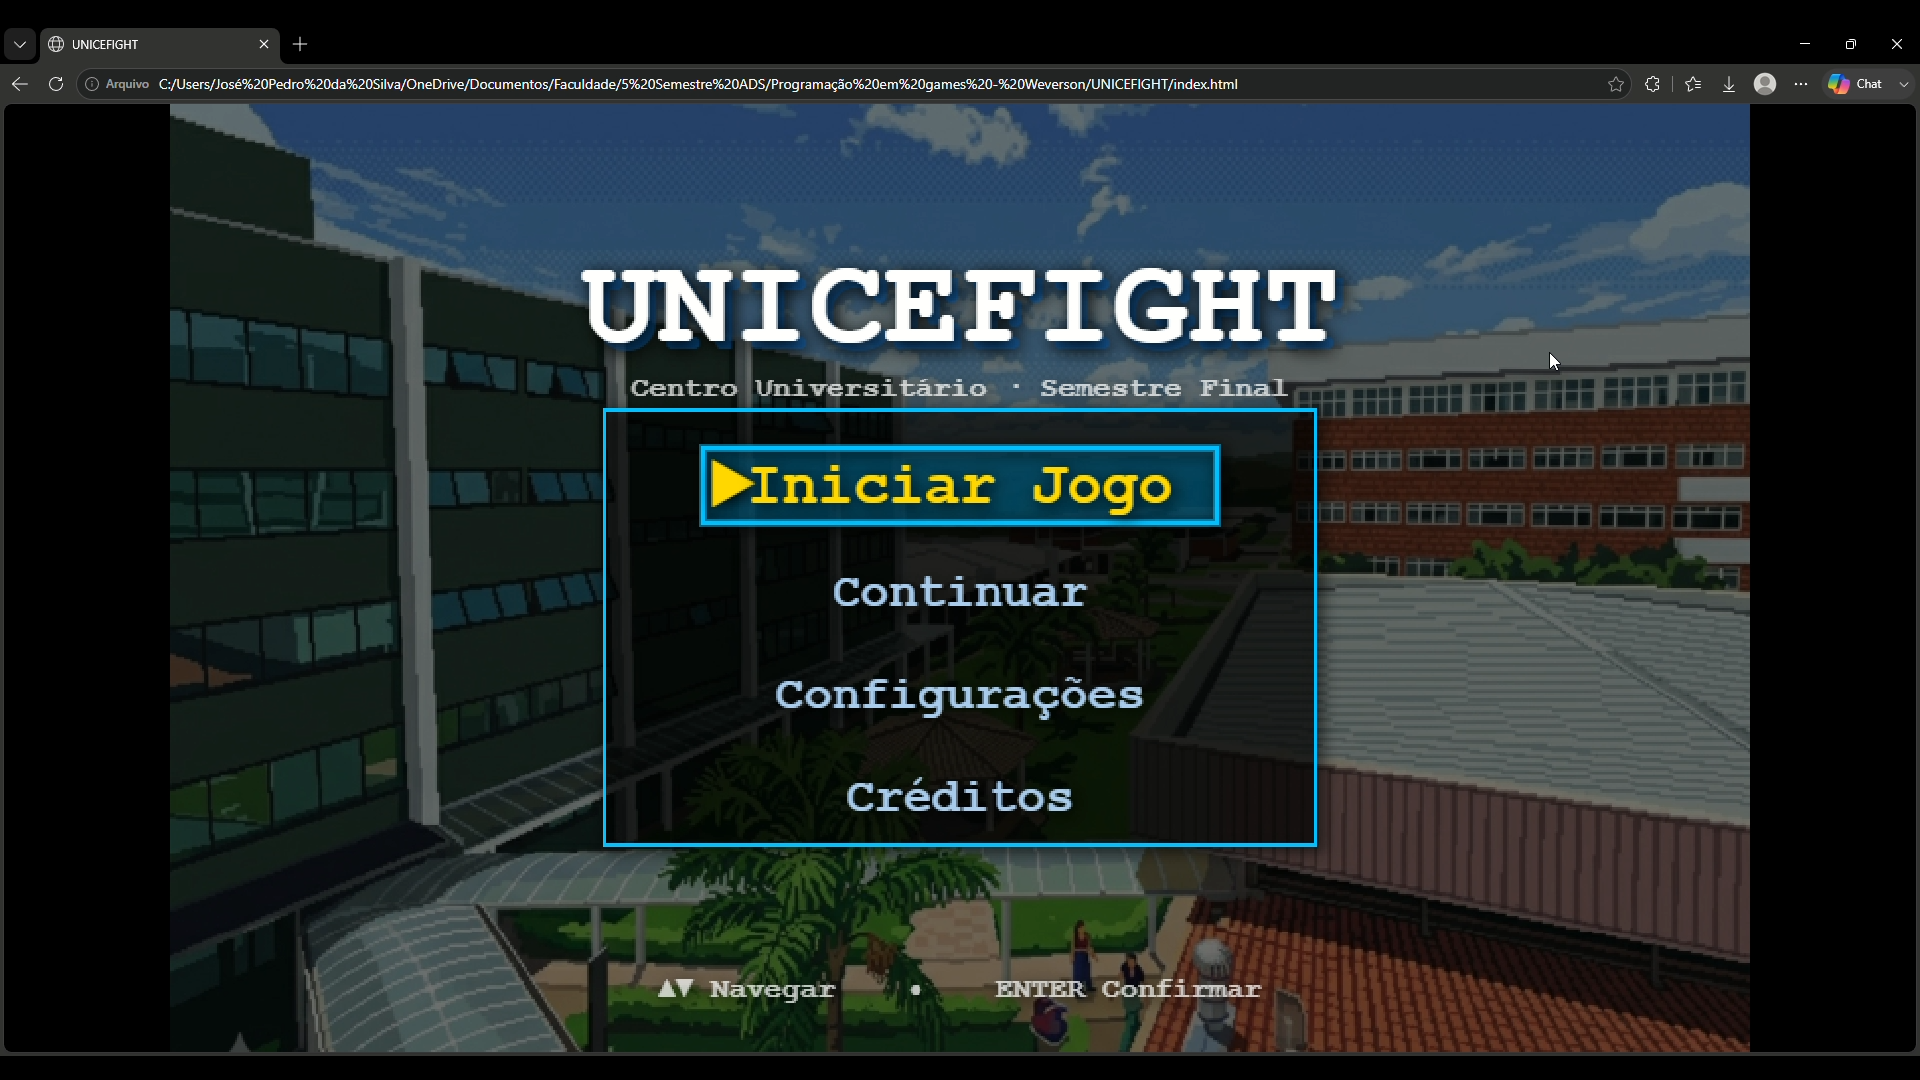
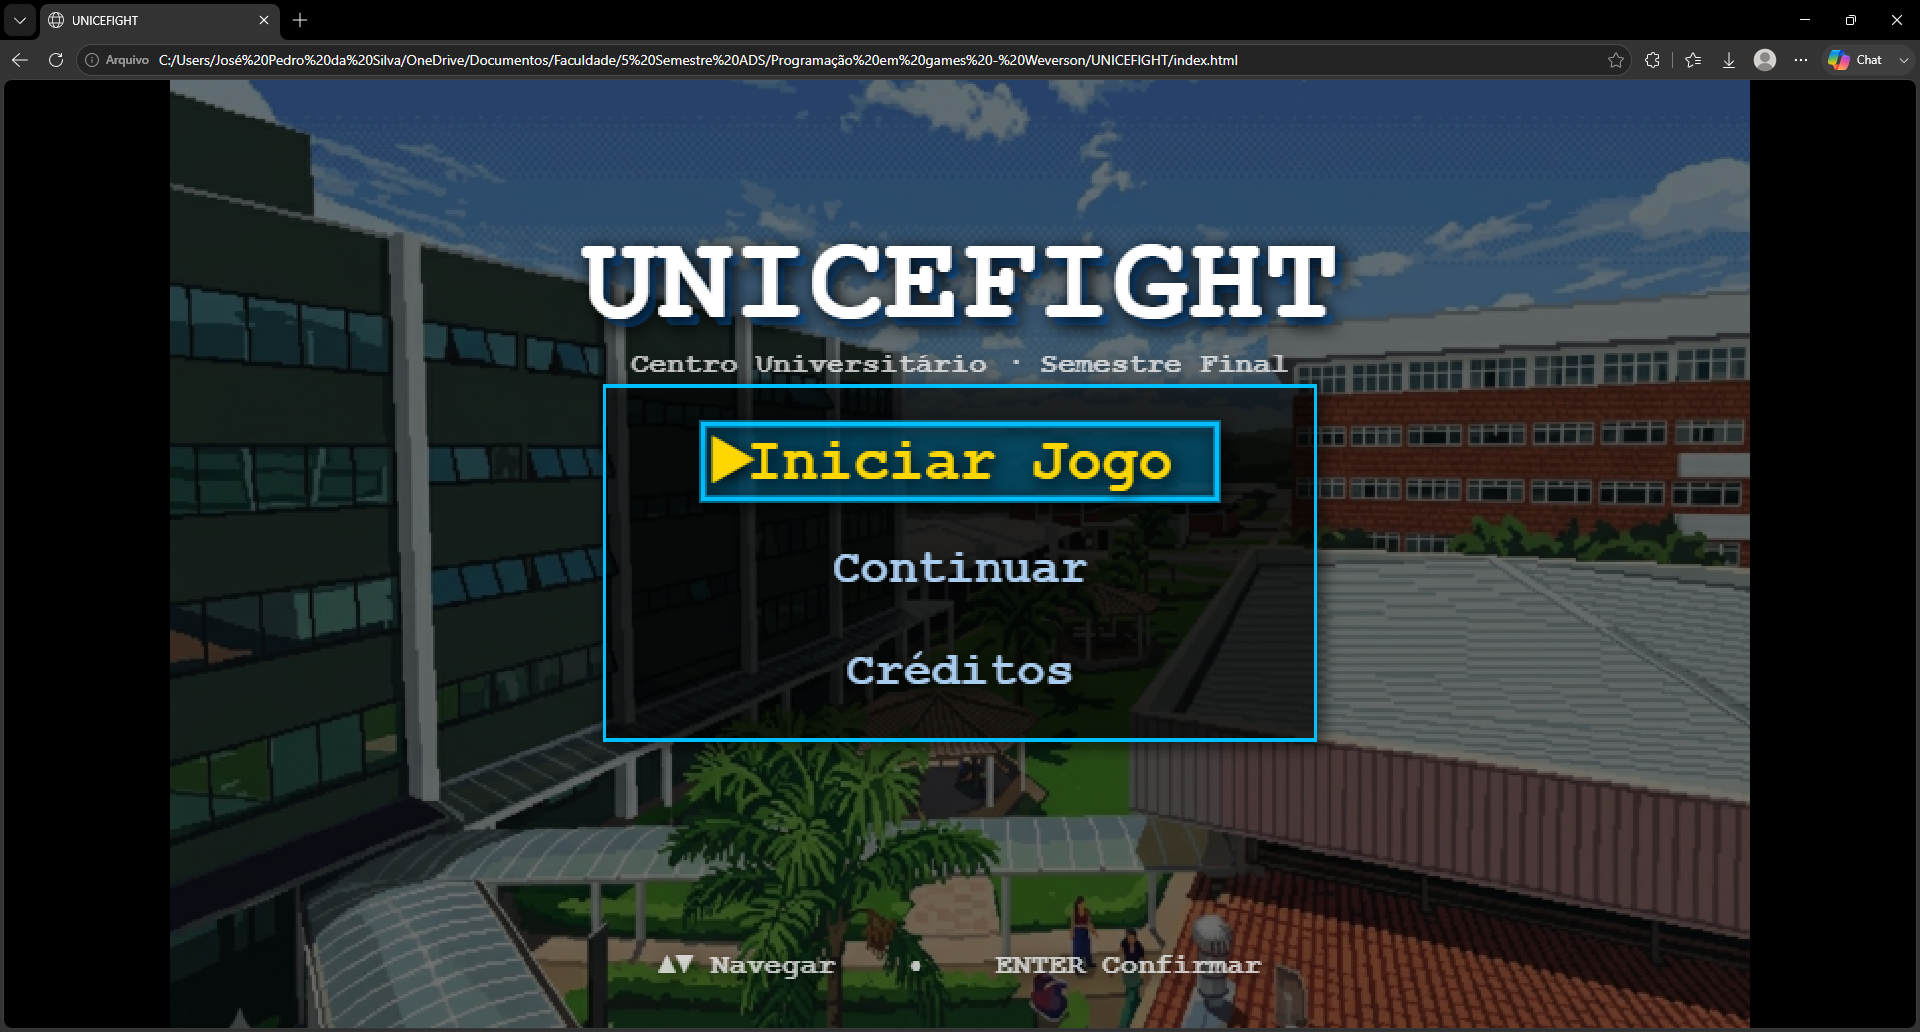
Novo projeto adicionado

diff --git a/js/script.js b/js/script.js
@@ -16,6 +16,8 @@ const totalImages =
 const modalDescription =
     document.getElementById("modal-description");
 
+const modalTitulo = document.getElementById("modal-titulo");
+
 const modalRole =
     document.getElementById("modal-role");
 
@@ -127,6 +129,39 @@ const projects = {
 
         hasDevelopment: false
 
+    },
+
+    listadetarefas: {
+
+        title: "Lista de tarefas",
+
+        images: [
+            "assets/images/listavazia.png",
+            "assets/images/formulario.png",
+            "assets/images/tarefado.png",
+            "assets/images/tarefamd.png",
+            "assets/images/tarefaconcluida.png",
+            "assets/images/editartarefa.png",
+            "assets/images/tarefaeditada.png",
+            "assets/images/formresponsivo.png"
+        ],
+
+        description: `Programa web de gerenciamento de tarefas do dia desenvolvido com HTML5, CSS3 e JavaScript, permitindo criar, editar, excluir e concluir tarefas, com suporte a horários e descrições. O sistema utiliza LocalStorage para persistência dos dados e possui uma interface dinâmica para gerenciamento das tarefas e interação com o formulário.`,
+
+        role: `Projeto desenvolvido com objetivo de aprimorar minhas habilidades em HTML5, CSS3 e JavaScript, colocando em prática conceitos de desenvolvimento web, manipulação do DOM, e armazenamento de dados utilizando LocalStorage, desenvolvendo uma aplicação funcional e responsivo`,
+
+        technologies: [
+            "HTML5",
+            "CSS3",
+            "JavaScript"
+        ],
+
+        github: "https://github.com/Pedro312777/Lista-de-tarefas",
+
+        demo: null,
+
+        hasDevelopment: false
+
     }
 
 };
@@ -153,6 +188,13 @@ function openProjectModal(projectName) {
 
     modalRole.textContent =
         currentProject.role;
+
+    if(projectName === "listadetarefas"){
+        modalTitulo.textContent = "Objetivo do projeto:";
+    }
+    else{
+        modalTitulo.textContent = "Meu Papel:";
+    }
 
     totalImages.textContent =
         images.length;

diff --git a/index.html b/index.html
@@ -356,6 +356,47 @@
 
             </div>
 
+            <div class="project-card">
+
+                <img src="assets/images/listadetarefas.png" alt="Projeto Buy">
+
+                <div class="project-content">
+
+                    <h3>Lista de tarefas</h3>
+
+                    <p>
+                        Programa web de gerenciamento de tarefas do dia.
+                    </p>
+
+                    <p class="project-role">
+                        <strong>Objetivo do projeto:</strong> Projeto desenvolvido com objetivo de aprimorar minhas habilidades em HTML5, CSS3 e JavaScript, colocando em prática conceitos de desenvolvimento web, manipulação do DOM, e armazenamento de dados utilizando LocalStorage, desenvolvendo uma aplicação funcional e responsiva.
+                    </p>
+
+                    <div class="project-tech">
+
+                        <span>HTML5</span>
+                        <span>CSS3</span>
+                        <span>JavaScript</span>
+
+                    </div>
+
+                    <button class="project-details-btn" onclick="openProjectModal('listadetarefas')">
+                        Ver detalhes
+                    </button>
+
+                     <div class="project-links">
+
+                        <a href="https://github.com/Pedro312777/Lista-de-tarefas" target="_blank">
+                            <i class="fa-brands fa-github"></i>
+                            GitHub
+                        </a>
+
+                    </div>
+
+                </div>
+
+            </div>
+
              <div class="project-card">
 
                 <img src="assets/images/onebithealth.jpeg" alt="Projeto OneBitHealth">
@@ -606,7 +647,7 @@
 
         </div>
 
-        <h3>Meu papel</h3>
+        <h3 id="modal-titulo">Meu papel</h3>
 
         <p id="modal-role"></p>
 
